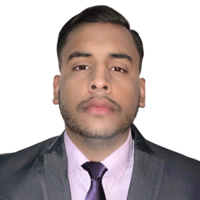
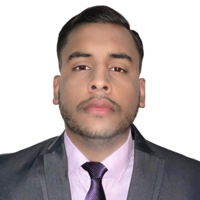
adding animations

diff --git a/index.html b/index.html
@@ -13,7 +13,7 @@
     <meta itemprop="description" content="EP Capital Investment es un Fondo Común de Inversión que se destaca en operaciones que involucran pares de monedas, metales, índices y criptoactivos">
     <meta itemprop="image" content="img/logo-EP-Capital.png">
     <link rel="SHORTCUT ICON" href="img/favicon32.ico">
-    <link rel="stylesheet" href="css/master.css?q=312435">
+    <link rel="stylesheet" href="css/master.css?q=3135">
     <link rel="stylesheet" href="./ElementsScrollAnimation/ElementsScrollAnimation.css">
     <link href="https://fonts.googleapis.com/css?family=Poppins:300,400&display=swap" rel="stylesheet preconnect">
   </head>
@@ -69,7 +69,7 @@
 
       <div class="icon myAnimatable" my-animation="bounce left">
         <div>
-          <object data="img/Inversion.svg" type="image/svg+xml">Inversiones Seguras</object>
+          <object data="img/Inversion.svg" class='element' type="image/svg+xml">Inversiones Seguras</object>
         </div>
         <h2>Inversiones Seguras</h2>
       </div>
@@ -160,7 +160,7 @@
       </div>
       <div class="member inversor myAnimatable" my-animation="bounce bottom">
         <h2>Juan Cañizalez</h2>
-        <img src="img/Juan-Cañizales.jpg" alt="Juan Cañizalez">
+        <img src="img/Juan-PruebaSF.jpg" alt="Juan Cañizalez">
         <h2 class="bold">COO</h2>
         <button class="button biography">Experiencia</button>
         <div class="bio">

diff --git a/scripts/master.js b/scripts/master.js
@@ -34,8 +34,11 @@ window.addEventListener("load", function () {
   svg = document.getElementsByTagName("object")
 
   window.addEventListener("scroll", () => {
+    console.log(svg);
+    
     for(elementSVG of svg){
       svgAnimate(elementSVG)
+      console.log(elementSVG);
     }
   })
 
@@ -48,16 +51,6 @@ window.addEventListener("load", function () {
     }
     this.classList.add("active")
   })
-
-  // sociosB.addEventListener("click", function (){
-  //   show(true, socios)
-  //   show(false, analistas)
-  //   show(false, inversores)
-  //   for(element of team){
-  //     element.classList.remove("active")
-  //   }
-  //   this.classList.add("active")
-  //  })
 
    analistasB.addEventListener("click", function (){
     show(false, socios)
@@ -85,10 +78,12 @@ function show(display, who){
 function svgAnimate(svgDocument){
   let svg = svgDocument.contentDocument
   velas = svg.getElementsByClassName("element")
-  if(svgDocument.getBoundingClientRect().top < 600) {
+  console.log(svgDocument.getBoundingClientRect().top);
+  if(svgDocument.getBoundingClientRect().top < 400) {
 		for(element of velas){
 			element.classList.add("animate")
-		}
+    }
+    svg.getElementById("shield").classList.add("secondAnimation")
   }
 }
     
